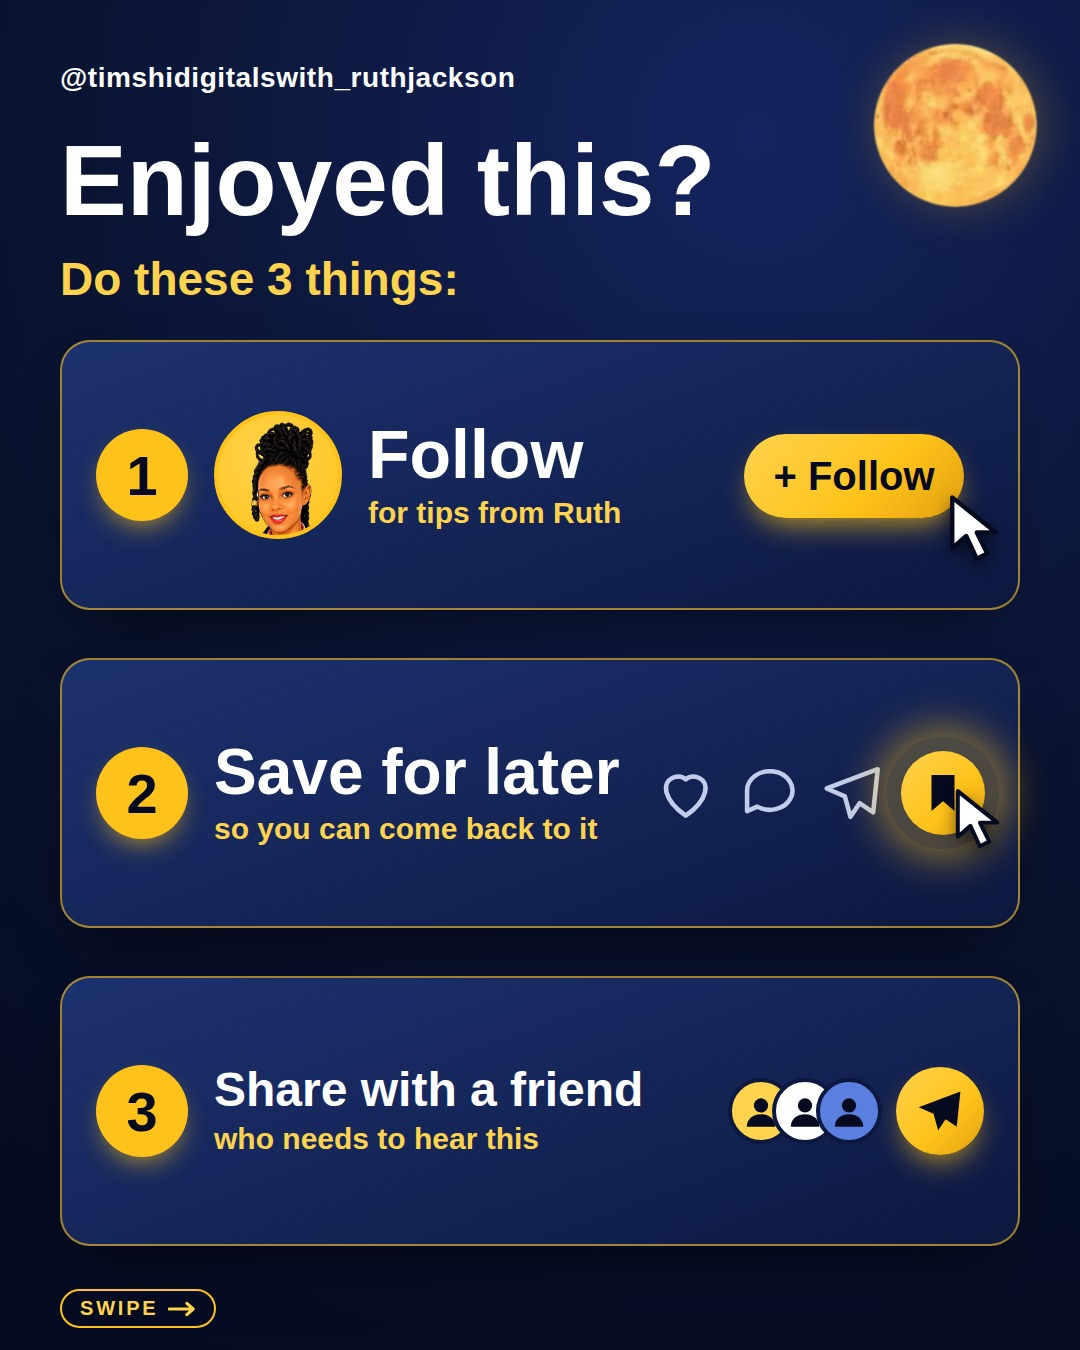
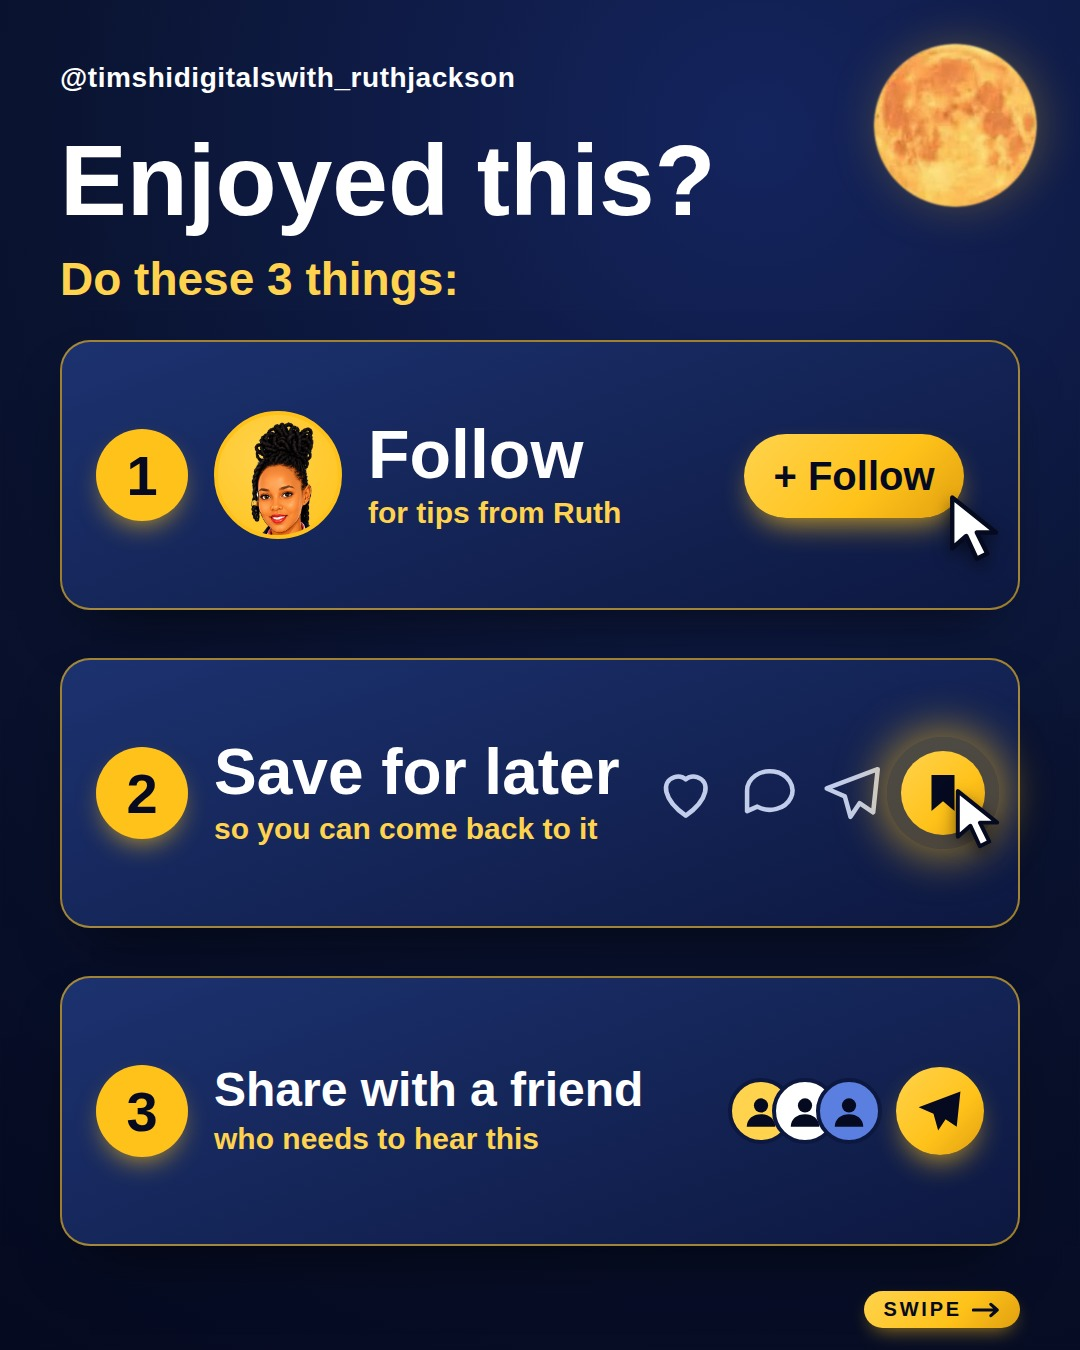
Move slide 7 swipe pill to bottom-right, gold fill with navy arrow
Claude-Session: https://claude.ai/code/session_01BuedDNHZYcRoXDUMnpxN87

Changed region(s): [[0.7944, 0.9333, 0.9472, 0.9956], [0.0611, 0.9333, 0.2139, 0.9956]]

diff --git a/social/carousel-kit/build.js b/social/carousel-kit/build.js
@@ -13,7 +13,7 @@ const base = `*{box-sizing:border-box;margin:0}body{width:1080px;height:1350px;p
 const moon = (size, top, right) => `<div class="abs" style="top:${top + size * .19}px;right:${right + size * .16}px;width:${size * .62}px;height:${size * .62}px;border-radius:50%;box-shadow:0 0 ${size * .3}px ${size * .13}px rgba(255,194,26,.35)"></div><img class="abs" src="${MOON}" style="top:${top}px;right:${right}px;width:${size}px;height:${size}px">`;
 const ruth = (w, left, top, disc) => `<div class="disc" style="width:${disc}px;height:${disc}px;left:${left + 40}px;top:${top + 90}px"></div><img class="abs" src="${PIC}" style="width:${w}px;left:${left}px;top:${top}px">`;
 const swipe = b => `<div class="abs" style="left:60px;bottom:${b}px;display:flex;align-items:center;gap:14px;border:3px solid #ffc21a;border-radius:40px;padding:10px 26px;font-size:28px;font-weight:800;letter-spacing:.16em;color:#ffd34d">SWIPE<svg width="40" height="22" viewBox="0 0 40 22"><path d="M2 11h34M27 3l9 8-9 8" stroke="#ffd34d" stroke-width="4" fill="none" stroke-linecap="round" stroke-linejoin="round"/></svg></div>`;
-const swipeSm = () => `<div class="abs" style="left:60px;bottom:22px;display:flex;align-items:center;gap:10px;border:2px solid #ffc21a;border-radius:30px;padding:6px 18px;font-size:20px;font-weight:800;letter-spacing:.14em;color:#ffd34d">SWIPE<svg width="28" height="16" viewBox="0 0 40 22"><path d="M2 11h34M27 3l9 8-9 8" stroke="#ffd34d" stroke-width="4.5" fill="none" stroke-linecap="round" stroke-linejoin="round"/></svg></div>`;
+const swipeSm = () => `<div class="abs" style="right:60px;bottom:22px;display:flex;align-items:center;gap:10px;background:linear-gradient(135deg,#ffd34d,#ffc21a 60%,#e0a010);border-radius:30px;padding:7px 20px;font-size:20px;font-weight:900;letter-spacing:.14em;color:#050a20;box-shadow:0 8px 20px -8px rgba(255,194,26,.7)">SWIPE<svg width="28" height="16" viewBox="0 0 40 22"><path d="M2 11h34M27 3l9 8-9 8" stroke="#050a20" stroke-width="4.5" fill="none" stroke-linecap="round" stroke-linejoin="round"/></svg></div>`;
 const cover = () => `<style>${base}</style><div class="handle">${HANDLE}</div>${moon(290, 36, 26)}
 <div class="abs" style="top:250px;left:60px;width:620px;font-size:128px;line-height:1.02;font-weight:900">${T.hook.join('<br>')}</div>
 <div class="abs g" style="top:700px;left:60px;width:520px;font-size:68px;line-height:1.1;font-weight:800">${T.gold}</div>${ruth(640, 480, 610, 560)}${swipe(70)}`;

diff --git a/social/carousel-kit/STYLE-GUIDE.md b/social/carousel-kit/STYLE-GUIDE.md
@@ -13,7 +13,7 @@ Build a 7-slide carousel, 1080x1350 JPG, for the topic: <TOPIC>. Use Ruth's desi
 - Slide 1 (cover): the viewer-addressing hook in big white bold text (3 short lines, starts with "You" or "Your"), then one gold line with the cost or promise. Nothing else.
 - Slides 2 to 5 (tips): gold circle with the navy number, tip title in big white bold, explanation in bold gold addressed to the viewer ("you"), four small progress dots bottom-left.
 - Slide 6 (call to action): "You can learn this with Ruth." in white, the course name in gold, a green "WhatsApp" button (label only, no number), then small white lines for TikTok, Instagram, Facebook and coachruthjackson.com.
-- Slide 7 (engagement): "Enjoyed this?" in white and "Do these 3 things:" in gold, then three full-width navy cards. Card 1: Ruth's avatar, "Follow" and a gold "+ Follow" button with a tap cursor. Card 2: "Save for later" with an action bar (heart, comment, share) and a glowing gold bookmark being tapped. Card 3: "Share with a friend" with friend avatars and a gold send button. Handle and moon stay; with a small "SWIPE →" pill at the bottom-left.
+- Slide 7 (engagement): "Enjoyed this?" in white and "Do these 3 things:" in gold, then three full-width navy cards. Card 1: Ruth's avatar, "Follow" and a gold "+ Follow" button with a tap cursor. Card 2: "Save for later" with an action bar (heart, comment, share) and a glowing gold bookmark being tapped. Card 3: "Share with a friend" with friend avatars and a gold send button. Handle and moon stay; with a small gold-filled "SWIPE →" pill (navy text and arrow) at the bottom-right.
 - Swipe cue: slides 1 to 6 have a small gold outlined "SWIPE →" pill at the bottom-left (above the progress dots on tip slides). Slide 7 has a smaller one.
 - Copy rules: short sentences, speak to the viewer as "you", no em-dashes, no made-up statistics, fake quotes or client names.
 - Always post the finished slides in the chat so Ruth can see them.
